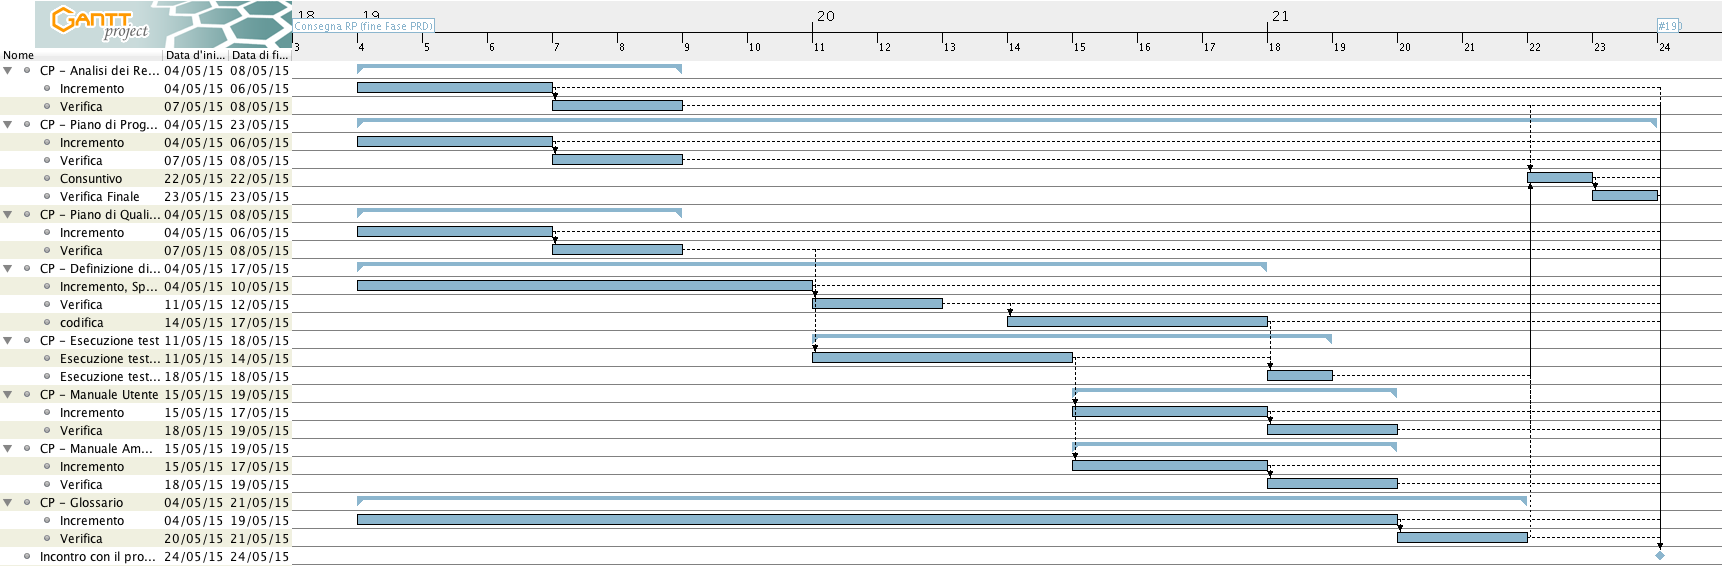
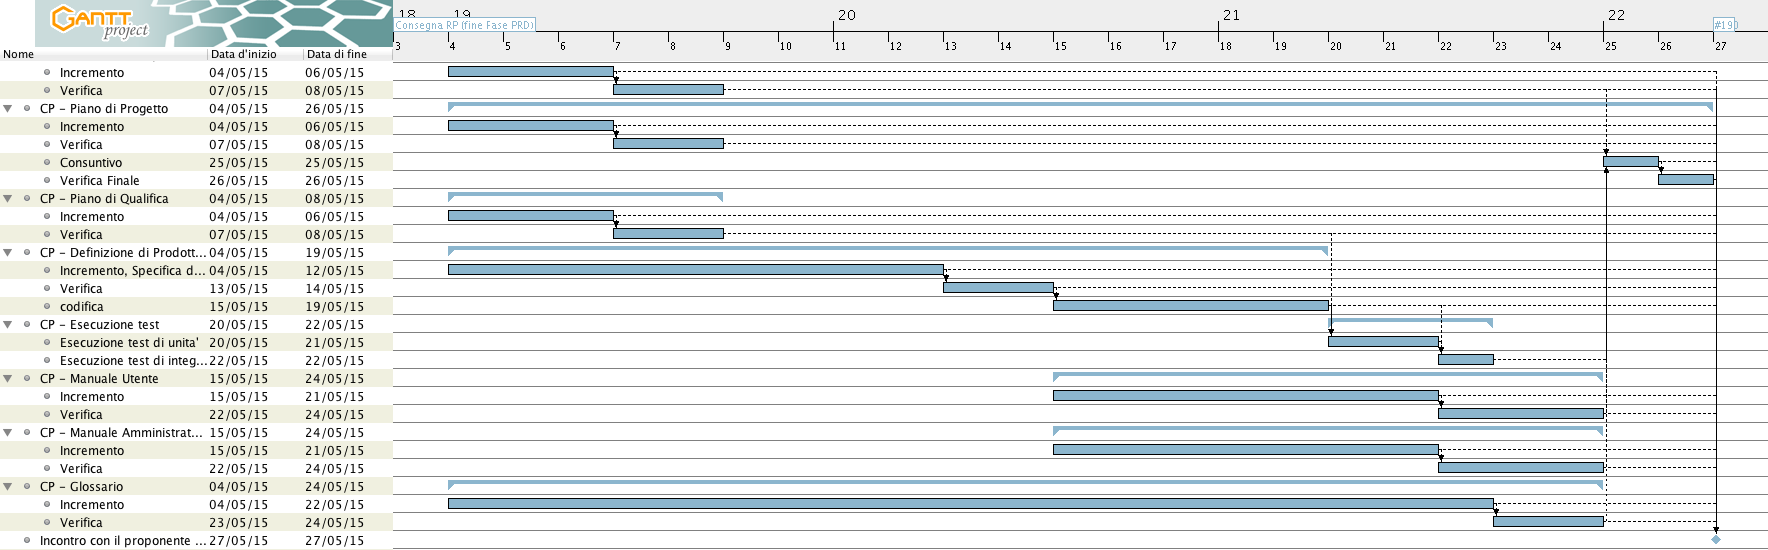
#166 #167

diff --git a/Documents/PianoDiProgetto/Tex/Consuntivo.tex b/Documents/PianoDiProgetto/Tex/Consuntivo.tex
@@ -7,56 +7,52 @@
 		\item \textbf{in pari}: se le spese totali previste sono rimaste inalterate anche se ci sono stati prolungamenti di tempo in alcuni ruoli e diminuzioni in altri. Il consuntivo e il preventivo sono identici;
 		\item \textbf{negativo}: se le modifiche, apportate durante la \insglo{fase} appena conclusa, dei tempi per ruolo hanno causato un aumento dei costi, ovvero quando il consuntivo supera il preventivo.
 	\end{itemize}
-	
-	%\level{2}{Fase DB}
-	%	\level{3}{Consuntivo parziale}
-	%		Verranno di seguito riportate le ore ed i costi effettivamente sostenute durante la \insphase{Fase DB}. Si ricordi che durante questa \insglo{fase} le spese non sono rendicontato ma sono considerate di investimento.
-	%		\begin{table}[H]
-	%			\begin{center}
-	%				\begin{tabular}{| l | c | c |}
-	%					\hline
-	%					Ruolo 				& Ore 			& Costi  \\ \hline
-						
-	%					Project Manager		& 32 			& \euro{} 960 	\\
-	%					Amministratore 		& 54 (-4)		& \euro{} 1080 (-\euro{} 80)	\\
-	%					Analista	 		& 109 (+4)		& \euro{} 2725 (+\euro{} 100)	\\
-	%					Progettista 		& 0				& \euro{} 0 	\\
-	%					Programmatore		& 0				& \euro{} 0		\\
-	%					Verificatore		& 77			& \euro{} 1155 	\\ \hline \hline
-						
-	%					Totale Preventivo	& 272 			& \euro{} 5920 	\\ \hline
-	%					Totale Consuntivo	& 272 			& \euro{} 5940 	\\ \hline
-	%					Differenza			& - 			& \euro{} -20 	\\ \hline
-	%				\end{tabular}
-	%			\end{center}
-	%			\caption{Consuntivo Fase DB}
-	%		\end{table}
-	%	\level{3}{Conclusioni}
-	%		Il gruppo \groupname{} in questa \insglo{fase} ha rilevato rallentamenti nel ruolo di \insrole{Analista} ma nel contempo hanno notato una riduzione dei tempi per l'attività di \insrole{Amministratore}. Tali cambiamenti hanno generato un bilancio negativo di \euro{} 20. Ciò nonostante il \insglo{team} ha ritenuto questa una spesa (non a carico del committente) aggiuntiva ininfluente a fronte dell'esperienza acquisita. 
 
 	\level{2}{Fase SD}
 		\level{3}{Consuntivo parziale}
-	Verranno di seguito riportate le ore ed i costi effettivamente sostenute durante la \insphase{Fase SD}. Si ricordi che durante questa \insglo{fase} le spese sono rendicontate.
-	\begin{table}[H]
-		\begin{center}
-			\begin{tabular}{| l | c | c |}
-				\hline
-				Ruolo 				& Ore 	& Costi  \\ \hline
-				
-				Project Manager		& 11 (-3) 		& \euro{} 330,00 (\euro{} -90,00)	\\
-				Amministratore 		& 13 (-5)		& \euro{} 260,00 (\euro{} -100,00)	\\
-				Analista	 		& 57 (-7)		& \euro{} 1~425,00 (\euro{} -175,00)	\\
-				Progettista 		& 63 (+8)		& \euro{} 1~386,00  (\euro{} +176,00)	\\
-				Programmatore		& 0				& \euro{} 0,00	\\
-				Verificatore		& 60 (+7)		& \euro{} 900,00 (\euro{} +105,00)	\\ \hline \hline
-					
-				Totale Preventivo	& 204 			& \euro{} 4~301,00 	\\ \hline
-				Totale Consuntivo	& 204 			& \euro{} 4~217,00 	\\ \hline
-				Differenza			& - 			& \euro{} -84,00 	\\ \hline	
-			\end{tabular}
-		\end{center}
-		\caption{Consuntivo Fase SD}
-	\end{table}
+			Verranno di seguito riportate le ore ed i costi effettivamente sostenute durante la \insphase{Fase SD}. Si ricordi che durante questa \insglo{fase} le spese sono rendicontate.
+			\begin{table}[H]
+				\begin{center}
+					\begin{tabular}{| l | c | c |}
+						\hline
+						Ruolo 				& Ore 	& Costi  \\ \hline
+						
+						Project Manager		& 11 (-3) 		& \euro{} 330,00 (\euro{} -90,00)	\\
+						Amministratore 		& 13 (-5)		& \euro{} 260,00 (\euro{} -100,00)	\\
+						Analista	 		& 57 (-7)		& \euro{} 1~425,00 (\euro{} -175,00)	\\
+						Progettista 		& 63 (+8)		& \euro{} 1~386,00  (\euro{} +176,00)	\\
+						Programmatore		& 0				& \euro{} 0,00	\\
+						Verificatore		& 60 (+7)		& \euro{} 900,00 (\euro{} +105,00)	\\ \hline \hline
+							
+						Totale Preventivo	& 204 			& \euro{} 4~301,00 	\\ \hline
+						Totale Consuntivo	& 204 			& \euro{} 4~217,00 	\\ \hline
+						Differenza			& - 			& \euro{} -84,00 	\\ \hline	
+					\end{tabular}
+				\end{center}
+				\caption{Consuntivo Fase SD}
+			\end{table}
+
+			Nella tabella seguente sono riportate le differenze tra le ore di lavoro previste per ogni componente con quelle realmente impiegate.
+			\begin{table}[H]
+				\begin{center}
+					\begin{tabular}{| l | c | c | c | c | c | c | c |}
+						\hline
+						Componente 					& PM	& Am	 & An 		& Pt 		& Pm 	& Ve 	& Ore Totali componente \\ \hline
+						
+						Bigarella Chiara 			& 0		& 0		& 10 		& 17 		& 0		& 6 		& 33 \\
+						Bucco Riccardo 				& 7 (-3)& 0		& 0			& 17 (+3) 	& 0		& 11 		& 35 \\
+						Carlon Chiara	 			& 0		& 7 (-3)& 10 		& 0			& 0		& 11 (+3)	& 28 \\
+						Dal Bianco Davide 			& 0		& 3 (-1)& 0			& 17 		& 0		& 5	(+1)	& 25 \\
+						Moretto Alessandro 			& 0		& 0 	& 10 		& 12 		& 0		& 8 		& 30 \\
+						Pavanello Fabio Matteo	 	& 0		& 3 (-1)& 17 (-7)	& 0	(+5)	& 0		& 5	(+3)	& 25 \\
+						Rubin Marco					& 4 	& 0		& 10 		& 0			& 0		& 17 (+3)	& 28 \\ \hline \hline
+						
+						Ore Totali Ruolo Preventivo	& 11 	& 13 	& 57 		& 63 		& 0		& 60		& 204\\ 
+						Ore Totali Ruolo Consuntivo	& 8 	& 8 	& 50 		& 71 		& 0		& 67		& 204\\ \hline
+					\end{tabular}
+				\end{center}
+				\caption{Consuntivo suddivisione ore di lavoro Fase SD}
+			\end{table}
 		\level{3}{Conclusioni}
 			Il gruppo \groupname{} in questa \insglo{fase} ha rilevato rallentamenti nel ruolo di \insrole{Progettista} ma nel contempo ha notato una riduzione dei tempi per l'attività di \insrole{Amministratore}, \insrole{Analista} e \insrole{Project Manager}. Nonostante questi cambiamenti di pianificazione, il bilancio è andato in positivo di \textbf{\euro{} 84,00}.
 		\level{3}{Preventivo a finire}
@@ -64,27 +60,52 @@
 
 	\level{2}{Fase P} 
 		\level{3}{Consuntivo parziale}
-	Verranno di seguito riportate le ore ed i costi effettivamente sostenute durante la \insphase{Fase P}. Si ricordi che durante questa \insglo{fase} le spese sono rendicontate.
-	\begin{table}[H]
-		\begin{center}
-			\begin{tabular}{| l | c | c |}
-				\hline
-				Ruolo 				& Ore 	& Costi  \\ \hline
-				
-				Project Manager		& 7 		& \euro{} 210,00 	\\
-				Amministratore 		& 9 		& \euro{} 180,00 	\\
-				Analista	 		& 25 (-2) 		& \euro{} 625,00 (\euro{} -50,00)	\\
-				Progettista 		& 61 (+2)		& \euro{} 1~342,00 (\euro{} +44,00) 	\\
-				Programmatore		& 45 		& \euro{} 675,00 	\\
-				Verificatore		& 77 		& \euro{} 1155,00 	\\ \hline \hline
-				
-				Totale Preventivo	& 224 			& \euro{} 4~187,00 	\\ \hline
-				Totale Consuntivo	& 224 			& \euro{} 4~181,00 	\\ \hline
-				Differenza			& - 			& \euro{} -6,00 	\\ \hline
-			\end{tabular}
-		\end{center}
-		\caption{Consuntivo Fase P}
-	\end{table}
+			Verranno di seguito riportate le ore ed i costi effettivamente sostenute durante la \insphase{Fase P}. Si ricordi che durante questa \insglo{fase} le spese sono rendicontate.
+			\begin{table}[H]
+				\begin{center}
+					\begin{tabular}{| l | c | c |}
+						\hline
+						Ruolo 				& Ore 	& Costi  \\ \hline
+						
+						Project Manager		& 7 		& \euro{} 210,00 	\\
+						Amministratore 		& 9 		& \euro{} 180,00 	\\
+						Analista	 		& 25 (-2) 		& \euro{} 625,00 (\euro{} -50,00)	\\
+						Progettista 		& 61 (+2)		& \euro{} 1~342,00 (\euro{} +44,00) 	\\
+						Programmatore		& 45 		& \euro{} 675,00 	\\
+						Verificatore		& 77 		& \euro{} 1155,00 	\\ \hline \hline
+						
+						Totale Preventivo	& 224 			& \euro{} 4~187,00 	\\ \hline
+						Totale Consuntivo	& 224 			& \euro{} 4~181,00 	\\ \hline
+						Differenza			& - 			& \euro{} -6,00 	\\ \hline
+					\end{tabular}
+				\end{center}
+				\caption{Consuntivo Fase P}
+			\end{table}
+
+
+			Nella tabella seguente sono riportate le differenze tra le ore di lavoro previste per ogni componente con quelle realmente impiegate.
+
+			\begin{table}[H]
+				\begin{center}
+					\begin{tabular}{| l | c | c | c | c | c | c | c |}
+						\hline
+						Componente 					& PM	& Am 	& An 	& Pt 		& Pm 		& Ve 	& Ore Totali componente \\ \hline
+						
+						Bigarella Chiara 			& 0		& 0		& 0		& 8 		& 14 		& 9 		& 31 \\
+						Bucco Riccardo 				& 0		& 0		& 0		& 7 		& 12		& 15 		& 34 \\
+						Carlon Chiara	 			& 0		& 0		& 13 (-2) & 0			& 11 		& 6 		& 30 \\
+						Dal Bianco Davide 			& 7 	& 0		& 0		& 15 		& 0			& 11 		& 33 \\
+						Moretto Alessandro 			& 0		& 5 	& 0		& 15 		& 4 		& 10 		& 34 \\
+						Pavanello Fabio Matteo	 	& 0		& 4		& 12 	& 0			& 4 		& 13 		& 33 \\
+						Rubin Marco					& 0		& 0 	& 0		& 16 (+2)	& 0			& 13 		& 29 \\ \hline \hline
+						
+						Ore Totali Ruolo Preventivo & 7 	& 9 	& 25 	& 61 		& 45 		& 77 		& 224	\\ 
+						Ore Totali Ruolo Consuntivo & 7 	& 9 	& 25 (-2) & 61 (+2)	& 45 		& 77 		& 224	\\ \hline
+					\end{tabular}
+				\end{center}
+				\caption{Consuntivo suddivisione ore di lavoro Fase P}
+			\end{table}
+
 		\level{3}{Conclusioni} 
 			In questa \insglo{fase} non si sono riscontrati particolari problemi di pianificazione se non una piccola differenza tra il ruolo di \insrole{Analista} e \insrole{Progettista}. Tale differenza ha comunque portato un bilancio positivo di \textbf{\euro{} 6,00}.
 		\level{3}{Preventivo a finire}
@@ -93,51 +114,126 @@
 
 	%\level{2}{Fase IP}
 	%	\level{3}{Consuntivo parziale}
-	%Verranno di seguito riportate le ore ed i costi effettivamente sostenute durante la \insphase{Fase IP}. Si ricordi che durante questa \insglo{fase} le spese sono rendicontate.
-	%\begin{table}[H]
-	%	\begin{center}
-			%\begin{tabular}{| l | c | c |}
-			%			\hline
-			%			Ruolo 				& Ore 			& Costi  	\\ \hline
+			%Verranno di seguito riportate le ore ed i costi effettivamente sostenute durante la \insphase{Fase IP}. Si ricordi che durante questa \insglo{fase} le spese sono rendicontate.
+			%\begin{table}[H]
+			%	\begin{center}
+					%\begin{tabular}{| l | c | c |}
+					%			\hline
+					%			Ruolo 				& Ore 			& Costi  	\\ \hline
+								
+					%			Project Manager		&  				& \euro{}  	\\
+					%			Amministratore 		& 				& \euro{} 	\\
+					%			Analista	 		& 				& \euro{} 	\\
+					%			Progettista 		& 				& \euro{} 	\\
+					%			Programmatore		& 				& \euro{}	\\
+					%			Verificatore		& 				& \euro{} 	\\ \hline \hline
 						
-			%			Project Manager		&  				& \euro{}  	\\
-			%			Amministratore 		& 				& \euro{} 	\\
-			%			Analista	 		& 				& \euro{} 	\\
-			%			Progettista 		& 				& \euro{} 	\\
-			%			Programmatore		& 				& \euro{}	\\
-			%			Verificatore		& 				& \euro{} 	\\ \hline \hline
-				
-			%			Totale Preventivo	&  				& \euro{}  	\\ \hline
-			%			Totale Consuntivo	&  				& \euro{}  	\\ \hline
-			%			Differenza			&  				& \euro{}  	\\ \hline
+					%			Totale Preventivo	&  				& \euro{}  	\\ \hline
+					%			Totale Consuntivo	&  				& \euro{}  	\\ \hline
+					%			Differenza			&  				& \euro{}  	\\ \hline
+					%		\end{tabular}
+			%	\end{center}
+			%	\caption{Consuntivo Fase IP}
+			%\end{table}
+
+
+			%Nella tabella seguente sono riportate le differenze tra le ore di lavoro previste per ogni componente con quelle realmente impiegate.
+
+			%\begin{table}[H]
+			%	\begin{center}
+			%		\begin{tabular}{| l | c | c | c | c | c | c | c |}
+			%			\hline
+			%			Componente 					& PM	& Am	& An 	& Pt 		& Pm 		& Ve 	& Ore Totali componente \\ \hline
+						
+			%			Bigarella Chiara 			& 5 	& 0		& 0		& 4			& 4 		& 0		& 13 \\
+			%			Bucco Riccardo 				& 0		& 0		& 0		& 0			& 2			& 12 	& 14 \\
+			%			Carlon Chiara	 			& 0		& 2 	& 0		& 7 		& 2 		& 5 	& 16 \\
+			%			Dal Bianco Davide 			& 0		& 0		& 0		& 0			& 5 		& 8 	& 13 \\
+			%			Moretto Alessandro 			& 0		& 0		& 13 	& 0			& 0			& 0		& 13 \\
+			%			Pavanello Fabio Matteo	 	& 0		& 0		& 0		& 0			& 3 		&11 	& 14 \\
+			%			Rubin Marco					& 0		& 0 	& 0		& 10 		& 3 		& 5		& 18 \\ \hline \hline
+						
+			%			Ore Totali Ruolo Preventivo 			& 5 	& 2 	& 13 	& 21 		& 19 		& 41 	& 101\\ 
+			%			Ore Totali Ruolo Consuntivo 			& 5 	& 2 	& 13 	& 21 		& 19 		& 41 	& 101\\ \hline
 			%		\end{tabular}
-	%	\end{center}
-	%	\caption{Consuntivo Fase IP}
-	%\end{table}
+			%	\end{center}
+			%	\caption{Consuntivo suddivisione ore di lavoro Fase IP}
+			%\end{table}
+
 	%	\level{3}{Conclusioni}
 	%	\level{3}{Preventivo a finire}
 	
 	%\level{2}{Fase CP}
 	%	\level{3}{Consuntivo parziale}
-	%Verranno di seguito riportate le ore ed i costi effettivamente sostenute durante la \insphase{Fase CP}. Si ricordi che durante questa \insglo{fase} le spese sono rendicontate.
-	%\begin{table}[H]
-	%	\begin{center}
-			%TODO tabular
-	%	\end{center}
-	%	\caption{Consuntivo Fase CP}
-	%\end{table}
+			%Verranno di seguito riportate le ore ed i costi effettivamente sostenute durante la \insphase{Fase CP}. Si ricordi che durante questa \insglo{fase} le spese sono rendicontate.
+			%\begin{table}[H]
+			%	\begin{center}
+					%TODO tabular
+			%	\end{center}
+			%	\caption{Consuntivo Fase CP}
+			%\end{table}
+
+
+			%Nella tabella seguente sono riportate le differenze tra le ore di lavoro previste per ogni componente con quelle realmente impiegate.
+
+			%\begin{table}[H]
+			%	\begin{center}
+			%		\begin{tabular}{| l | c | c | c | c | c | c | c |}
+			%			\hline
+			%			Componente 					& PM	& Am 	& An 	& Pt 		& Pm 	& Ve 		& Ore Totali componente \\ \hline
+						
+			%			Bigarella Chiara 			& 0		& 0		& 0		& 6 		& 0		& 8 		& 14 \\
+			%			Bucco Riccardo 				& 0		& 0		& 0		& 4 		& 0		& 7 		& 11 \\
+			%			Carlon Chiara	 			& 0		& 2 	& 0		& 12 		& 0		& 4 		& 18 \\
+			%			Dal Bianco Davide 			& 0		& 0		& 0		& 0			& 12 	& 9 		& 21 \\
+			%			Moretto Alessandro 			& 0		& 0		& 0		& 0			& 11 	& 5			& 16 \\
+			%			Pavanello Fabio Matteo	 	& 5 	& 0		& 5		& 0			& 7 	& 5 		& 22 \\
+			%			Rubin Marco					& 0		& 0		& 13 	& 0			& 0		& 4 		& 17 \\ \hline \hline
+						
+			%			Ore Totali Ruolo Preventivo 			& 5 	& 2 	& 18 	& 22 		& 30 	& 42 		& 119\\ 
+			%			Ore Totali Ruolo Consuntivo 			& 5 	& 2 	& 18 	& 22 		& 30 	& 42 		& 119\\ \hline
+			%		\end{tabular}
+			%	\end{center}
+			%	\caption{Consuntivo suddivisione ore di lavoro Fase CP}
+			%\end{table}
+
 	%	\level{3}{Conclusioni}
 	%	\level{3}{Preventivo a finire}
 	
 	%\level{2}{Fase PD}
 	%	\level{3}{Consuntivo parziale}
-	%Verranno di seguito riportate le ore ed i costi effettivamente sostenute durante la \insphase{Fase PD}. Si ricordi che durante questa \insglo{fase} le spese sono rendicontate.
-	%\begin{table}[H]
-	%	\begin{center}
-			%TODO tabular
-	%	\end{center}
-	%	\caption{Consuntivo Fase PD}
-	%\end{table}
+			%Verranno di seguito riportate le ore ed i costi effettivamente sostenute durante la \insphase{Fase PD}. Si ricordi che durante questa \insglo{fase} le spese sono rendicontate.
+			%\begin{table}[H]
+			%	\begin{center}
+					%TODO tabular
+			%	\end{center}
+			%	\caption{Consuntivo Fase PD}
+			%\end{table}
+
+
+			%Nella tabella seguente sono riportate le differenze tra le ore di lavoro previste per ogni componente con quelle realmente impiegate.
+
+			%\begin{table}[H]
+			%	\begin{center}
+			%		\begin{tabular}{| l | c | c | c | c | c | c | c |}
+			%			\hline
+			%			Componente 					& PM	& Am 	& An 	& Pt 		& Pm 	& Ve 		& Ore Totali componente \\ \hline
+			%			
+			%			Bigarella Chiara 			& 0		& 0		& 0		& 0		& 5 		& 9 		& 14 \\
+			%			Bucco Riccardo 				& 0		& 0		& 0		& 0		& 7			& 4 		& 11 \\
+			%			Carlon Chiara	 			& 4 	& 0		& 0		& 0		& 0			& 3 		& 13 \\
+			%			Dal Bianco Davide 			& 0		& 0		& 0		& 0		& 0			& 13 		& 13 \\
+			%			Moretto Alessandro 			& 0		& 3 	& 0		& 0		& 0			& 9 		& 12 \\
+			%			Pavanello Fabio Matteo	 	& 0		& 0		& 0		& 9 	& 0			& 2 		& 11 \\
+			%			Rubin Marco					& 0		& 0		& 0		& 0		& 5 		& 8 		& 13 \\ \hline \hline
+						
+			%			Ore Totali Ruolo Preventivo 			& 4 	& 3 	& 0		& 9 	& 17 		& 54 		& 87\\
+			%			Ore Totali Ruolo Consuntivo 			& 4 	& 3 	& 0		& 9 	& 17 		& 54 		& 87\\ \hline
+			%		\end{tabular}
+			%	\end{center}
+			%	\caption{Consuntivo suddivisione ore di lavoro Fase PD}
+			%\end{table}
+
 	%	\level{3}{Conclusioni}
 	%	\level{3}{Preventivo a finire}
 	

diff --git a/Documents/PianoDiProgetto/Tex/FaseCP.tex b/Documents/PianoDiProgetto/Tex/FaseCP.tex
@@ -1,6 +1,6 @@
 % !TEX encoding = UTF-8 Unicode
 \level{2}{Fase CP: Completion of the Product}
-	\textbf{Periodo}: dal \insdate{03}{05}{2015} al \insdate{24}{05}{2015} \\Questa \insglo{fase} comincia subito dopo la consegna per la \insphase{Fase IP} e termina con l'incontro con il proponente per mostrare il prototipo con tutti i requisiti implementati e con la scadenza della consegna per la \insrev{Revisione di Qualifica}. 
+	\textbf{Periodo}: dal \insdate{03}{05}{2015} al \insdate{27}{05}{2015} \\Questa \insglo{fase} comincia subito dopo la consegna per la \insphase{Fase IP} e termina con l'incontro con il proponente per mostrare il prototipo con tutti i requisiti implementati e con la scadenza della consegna per la \insrev{Revisione di Qualifica}. 
 	\\Le attività di questa \insglo{fase} saranno le seguenti:
 	\begin{itemize}
 		\item\textbf{Definizione di \insglo{Prodotto}}: viene steso il documento \insdoc{Definizione di Prodotto v3.00}. Esso definisce la struttura interna del sistema e le relazioni dei componenti del \insglo{prodotto} relativi ai requisiti obbligatori, desiderabili ed opzionali.

diff --git a/Documents/PianoDiProgetto/Tex/FasePD.tex b/Documents/PianoDiProgetto/Tex/FasePD.tex
@@ -1,6 +1,6 @@
 % !TEX encoding = UTF-8 Unicode
 \level{2}{Fase PD: Product Delivery}
-	\textbf{Periodo}: dal \insdate{24}{05}{2015} al \insdate{17}{06}{2015} \\Questa \insglo{fase} comincia con la fine della \insphase{Fase CP} e termina con la scadenza della consegna per la \insrev{RA}.
+	\textbf{Periodo}: dal \insdate{28}{05}{2015} al \insdate{17}{06}{2015} \\Questa \insglo{fase} comincia con la fine della \insphase{Fase CP} e termina con la scadenza della consegna per la \insrev{RA}.
 	\begin{itemize}
 		\item \textbf{Incremento e Verifica}: se necessario verranno effettuati aggiornamenti ai vari documenti scritti, che passeranno alla versione 7.00;
 		\item \textbf{Validazione}: viene verificato, attraverso tracciamento, di aver soddisfatto i requisiti presenti nel documento \insdoc{Analisi dei Requisiti v7.00};
